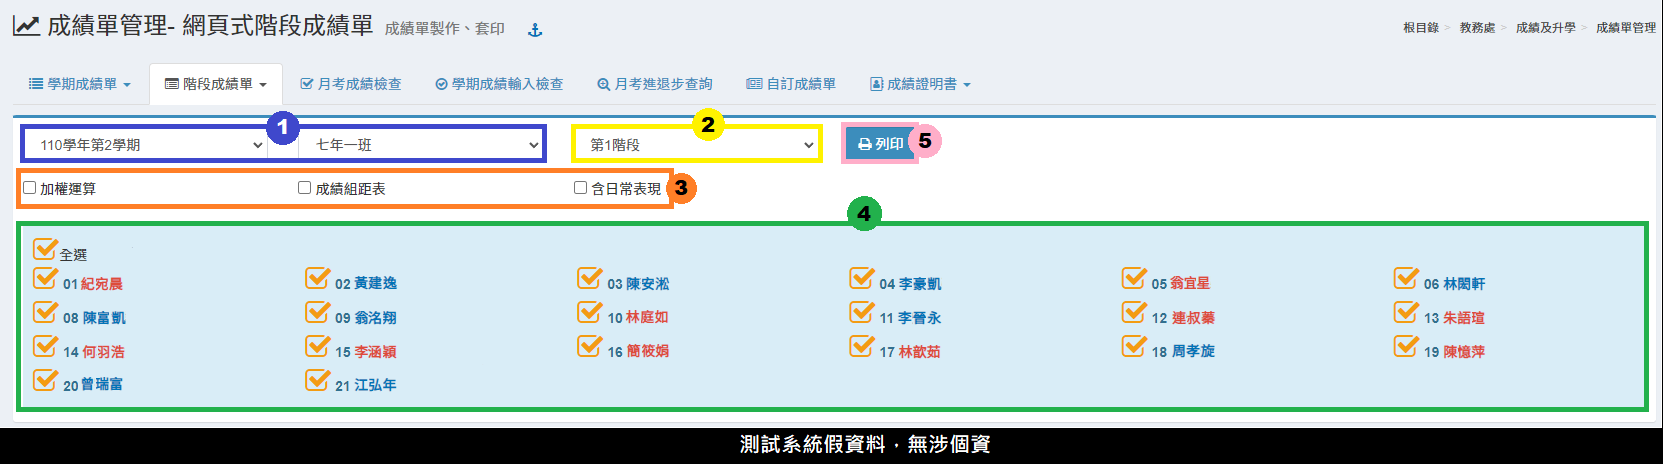
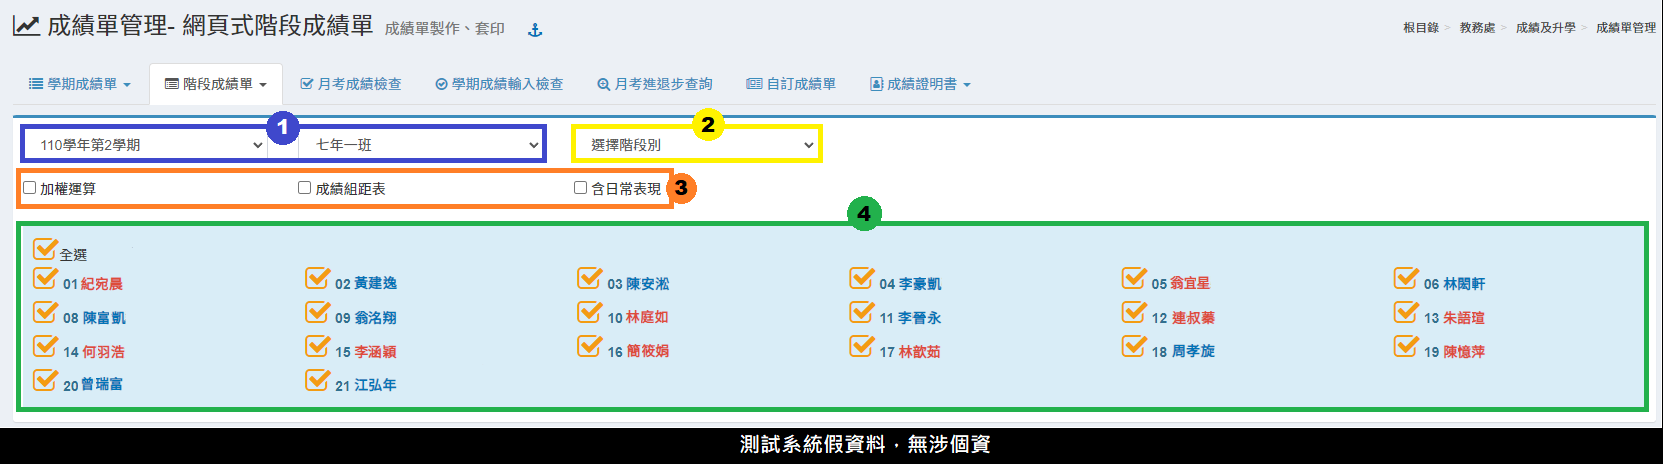
GitBook: [#375] [新增] 教職員>網頁式階段成績單、[更新]註冊組>網頁式階段成績單_220422

Changed region(s): [[0.4907, 0.2414, 0.5827, 0.3621], [0.3373, 0.3017, 0.3987, 0.3319]]

diff --git a/jiao-1/cheng-zuo.md b/jiao-1/cheng-zuo.md
@@ -28,7 +28,11 @@
 
 本功能提供導師或級任教師列印班級本學期之階段成績單。
 
-![](../.gitbook/assets/report-card-tutor2%20%281%29.png)
+{% tabs %}
+{% tab title="檔案式成績單" %}
+
+
+![](<../.gitbook/assets/report-card-tutor2 (1).png>)
 
 1. 選擇**「學生」**，右方會出現該名學生階段成績資訊。
 2. 選擇**「階段別」**。
@@ -36,12 +40,24 @@
 4. 輸入**「日常成績統計時間」**，系統會統計該段時間內，學生之出缺勤、獎懲、服務時數。
 5. 可勾選**「加權平均」**。
 6. 下載該生或全班成績單。
+{% endtab %}
+
+{% tab title="網頁式成績單" %}
+![](../.gitbook/assets/tutor-section-html.png)
+
+1. 選擇**「階段別」**。
+2. 預設為全選，點擊**「全選」**可一鍵全部選擇或取消全選，亦可個別勾選**「科目」**。
+3. 預設為全選，點擊**「全選」**可一鍵全部選擇或取消全選，亦可個別勾選**「學生」。**
+4. 勾選**「加權運算、成績組距表、含日常表現」**列印條件。
+5. 點擊**「列印」**印製該班學生成績單。（需選擇階段別後才會出現列印按鈕選項
+{% endtab %}
+{% endtabs %}
 
 ## 月考成績檢查
 
 本功能提供導師或級任教師觀看班級之階段成績輸入狀況。
 
-![](../.gitbook/assets/report-card-tutor3%20%281%29.png)
+![](<../.gitbook/assets/report-card-tutor3 (1).png>)
 
 1. 標示處呈現該班學生月考成績。
 2. 如果科目太多，可以拉動下方拉軸，觀看右方被遮蓋之內容。
@@ -50,11 +66,10 @@
 
 本功能提供導師或級任教師觀看班級之學期成績輸入狀況。
 
-![](../.gitbook/assets/report-card-tutor4%20%281%29.png)
+![](<../.gitbook/assets/report-card-tutor4 (1).png>)
 
 ## 月考進退步查詢
 
 本功能提供導師或級任教師觀看班級學生各階段成績進退步狀況。
 
-![](../.gitbook/assets/report-card-tutor5%20%281%29.png)
-
+![](<../.gitbook/assets/report-card-tutor5 (1).png>)

diff --git a/jiao/cheng-guan-li.md b/jiao/cheng-guan-li.md
@@ -44,13 +44,14 @@
 
 > 提供網頁列印成績單。
 
-![](<../.gitbook/assets/master-section-html (1).png>)
+![](../.gitbook/assets/master-section-html.png)
 
 1. 選擇**「學期」**、**「班級」**。
 2. 選擇**「階段別」。**
-3. 可勾選**「加權運算、成績組距表、含日常表現」**列印條件。
-4. 預設為全選，點擊**「全選」**可一鍵全部選擇或取消全選，亦可個別勾選**「學生」。**
-5. 按下**「列印」**印製該班學生成績單。（需選擇階段別後才會出現列印按鈕選項）
+3. 預設為全選，點擊**「全選」**可一鍵全部選擇或取消全選，亦可個別勾選**「學生」。**
+4. 預設為全選，點擊**「全選」**可一鍵全部選擇或取消全選，亦可個別勾選**「科目」。**
+5. 可勾選**「加權運算、成績組距表、含日常表現」**列印條件。
+6. 按下**「列印」**印製該班學生成績單。（需選擇階段別後才會出現列印按鈕選項）
 
 ## 月考成績檢查
 
